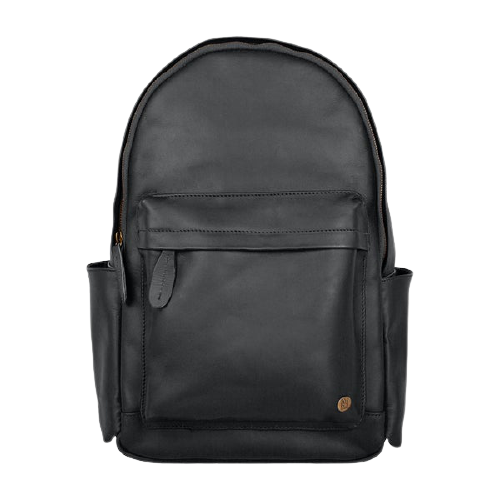
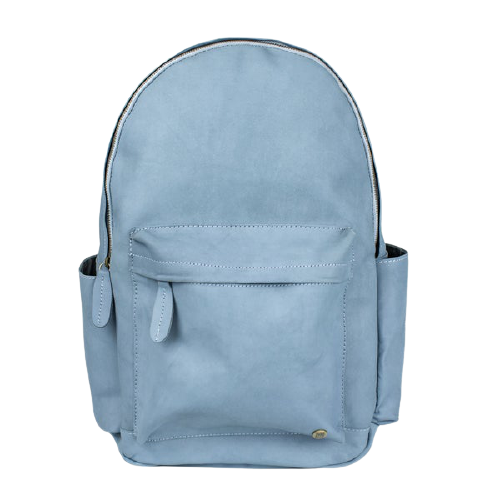
Closed gh-1 Color selection linking issue fixed

diff --git a/index.html b/index.html
@@ -27,9 +27,9 @@
                 <ul class="product-color">
                     <span class="color-title-heading">Color</span>
                     <span class="color-list">
-                        <li class="color-cirle" data-card="Image1"></li>
-                        <li class="color-cirle" data-card="Image1"></li>
-                        <li class="color-cirle" data-card="Image1"></li>
+                        <li onclick="ImageSwap('assets/imgs/Card1/bag1.png','Image1')" ></li>
+                        <li onclick="ImageSwap('assets/imgs/Card1/bag2.png','Image1')" ></li>
+                        <li onclick="ImageSwap('assets/imgs/Card1/bag3.png','Image1')" ></li>
                 </ul>
                 </span>
                    
@@ -46,14 +46,14 @@
         <div class="product-card">  
             <div class="img-container">
                 <div class="title-container"><h2>Leather Backpack</h2></div>
-                <img class="Image2" src="assets/imgs/Card2/bag4.png" alt="Bag 1">
+                <img class="Image2" src="assets/imgs/Card2/bag1.png" alt="Bag 1">
     
                 <ul class="product-color">
                     <span class="color-title-heading">Color</span>
                     <span class="color-list">
-                        <li class="color-cirle" data-card="Image2"></li>
-                        <li class="color-cirle" data-card="Image2"></li>
-                        <li class="color-cirle" data-card="Image2"></li>
+                        <li onclick="ImageSwap('assets/imgs/Card2/bag1.png','Image2')"></li>
+                        <li onclick="ImageSwap('assets/imgs/Card2/bag2.png','Image2')"></li>
+                        <li onclick="ImageSwap('assets/imgs/Card2/bag3.png','Image2')"></li>
                 </ul>
                 </span>
                    
@@ -70,14 +70,14 @@
         <div class="product-card">
             <div class="img-container">
                 <div class="title-container"><h2>Leather Purse</h2></div>
-                <img class="Image3" src="assets/imgs/Card3/bag2.png" alt="Bag 1">
+                <img class="Image3" src="assets/imgs/Card3/bag1.png" alt="Bag 1">
     
                 <ul class="product-color">
                     <span class="color-title-heading">Color</span>
                     <span class="color-list">
-                        <li class="color-cirle" data-card="Image3"></li>
-                        <li class="color-cirle" data-card="Image3"></li>
-                        <li class="color-cirle" data-card="Image3"></li>
+                        <li onclick="ImageSwap('assets/imgs/Card3/bag1.png','Image3')"></li>
+                        <li onclick="ImageSwap('assets/imgs/Card3/bag2.png','Image3')"></li>
+                        <li onclick="ImageSwap('assets/imgs/Card3/bag3.png','Image3')"></li>
                 </ul>
                 </span>
                    
@@ -95,9 +95,6 @@
   
     <!-- Linking the script.js file -->
     <script src="script.js"></script>
-
-    <!-- Linking JQuery.js file -->
-    <script src="jquery.3.6.0.js"></script>
 
 </body>
 </html>

diff --git a/script.js b/script.js
@@ -1,17 +1,8 @@
 
 // Script to swap card images on click
 
-// function ImageSwap(imageSrc){
+function ImageSwap(imageSrc, dataCard){
     
-//     document.querySelector('.main-img').src = imageSrc;
+    document.querySelector('.' + dataCard).src = imageSrc;
 
-// }
-
-
-const ColorSelections = document.querySelectorAll('.color-circle');
-
-ColorSelections.forEach((colorOption, i) =>{
-    colorOption.addEventListener('click', () =>{
-        color
-    })
-})
+}
